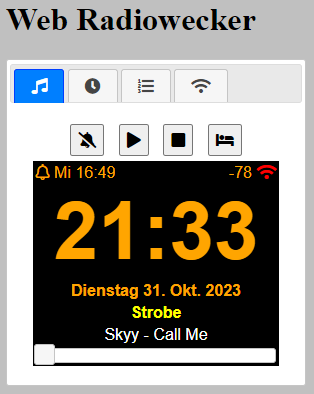
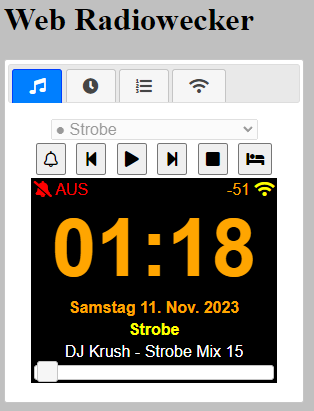
Remote Radio Wechsel
Ab sofort auch den Sender Online ändern.
Somit ab jetzt auch komplett ohne Display steuerbar.

Changed region(s): [[0.086, 0.2741, 0.8885, 0.9442], [0.0, 0.1218, 0.9745, 0.9746], [0.0, 0.0, 0.8312, 0.0914]]

diff --git a/radiowecker/index.h b/radiowecker/index.h
@@ -30,6 +30,8 @@ $(document).ready(function() {
   $("#btn_alarm").click(btnAlarm);// toggle Alarm zum ESP
   $("#btn_sleep").click(startSleep);// toggle Sleep zum ESP 
   GainSlider();// senden des Sliders zum ESP
+  $("#btn_bwd").click(beforeStation);// toggle beforeStation zum ESP 
+  $("#btn_fwd").click(nextStation);// toggle nextStation zum ESP 
 
   // Zeugs um die aktuellen Daten des ESP regelmäßig zu erhalten um halbwegs sinvolle Anzeigen zu sehen
   $("#tabs").tabs({
@@ -69,6 +71,7 @@ function getStationList() {
         url:"/cmd/stations",
         data:{},
         success: function(data){
+            $("#switchStation").html(data);          
             $("#stationlist").html(data);
             getStation();
         }
@@ -357,6 +360,30 @@ function updateCurrentStatusSleep(sleep) {
   $("#sleepIcon").html(sleepIcon);
   $("#btn_sleep").css('visibility', btn_sleephidden);
 }
+function beforeStation() {
+    $.ajax({
+        type: "POST",
+        url: "/cmd/beforeStation",
+        data: {},
+        success: function (response) {
+            if (response === "OK") {
+              getStationList();
+            }
+        }
+    });
+}
+function nextStation() {
+    $.ajax({
+        type: "POST",
+        url: "/cmd/nextStation",
+        data: {},
+        success: function (response) {
+            if (response === "OK") {
+              getStationList();
+            }
+        }
+    });
+}
 </script>
 <style>
 body {
@@ -370,7 +397,7 @@ label {
   float: left;  
 }
 button {
-    margin: 5px;
+    margin: 3px;
     height: 2.0em;    
 }
 input {
@@ -419,8 +446,12 @@ input {
     </ul>
     <div id="player">
       <div align="center">
+        <select id="switchStation" disabled></select>
+        <br />
         <button id="btn_alarm" type="button"></button>
+        <button id="btn_bwd" type="button"><i class="fa fa-step-backward"></i></button>
         <button id="btn_play" type="button"><i class="fas fa-play"></i></button>
+        <button id="btn_fwd" type="button"><i class="fa fa-step-forward"></i></button>
         <button id="btn_stop" type="button"><i class="fas fa-stop"></i></button>
         <button id="btn_sleep" type="button"><i class="fas fa-bed"></i></button>
         <br />
